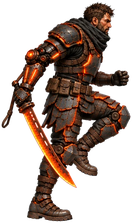
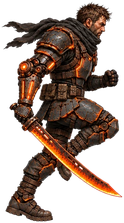
Swordsman: drawn jump, fall and dash; new run sheet with one sword in hand
Run sheets drop small enclosed white gaps (between blade and leg); airborne
and dash poses stand on the torso centre.

Claude-Session: https://claude.ai/code/session_01DbbAxgCR2CT7iqKnVBrHPT

diff --git a/coop-platformer/tools/sprites.py b/coop-platformer/tools/sprites.py
@@ -268,6 +268,10 @@ POSE_SOURCES = {
     "swordsman_slash_finisher": [("swordsman_finisher_a", None), ("swordsman_finisher_b", None)],
     "swordsman_slash_overhead": [("swordsman_slash_overhead", None)],
     "swordsman_wall": [("swordsman_wall", (0, 0, 874, 1536))],
+    "swordsman_jump": [("swordsman_jump", None)],
+    "swordsman_fall": [("swordsman_fall", None)],
+    # A long low lunge drawn on a wide canvas: its own scale (height compared with standing).
+    "swordsman_dash": [("swordsman_dash", None, 0.72)],
     # Back view with a hand raised above the head.
     "swordsman_climb": [("swordsman_climb", (0, 0, 724, 1086), 1.12), ("swordsman_climb", (724, 0, 1448, 1086), 1.12)],
 }
@@ -318,8 +322,9 @@ def _sheet_frames(name):
     """The figures of a sheet drawn in a row. Overlapping figures (a cape over
     the next one's boots) are told apart by connected pieces of drawing: each
     piece goes to the figure whose slot holds its middle."""
+    # Small gaps (between a blade and a leg) are background too.
     img = remove_background(Image.open(os.path.join(SRC, "heroes/poses/originals", name + "_original.png")),
-                            holes=400)
+                            holes=60)
     alpha = np.asarray(img)[:, :, 3]
     marks = Image.fromarray(np.where(alpha > 0, 255, 0).astype(np.uint8)).copy()
     owner = np.full(alpha.shape, -1, np.int8)
@@ -371,7 +376,7 @@ def build_poses():
                 width = alpha.shape[1]
                 if pose == "wall":
                     anchor = (width - WALL_GAP) / width
-                elif pose == "run":
+                elif pose in ("run", "jump", "fall", "dash"):
                     # Steady between frames: the middle of the body, not a foot.
                     torso = alpha[int(alpha.shape[0] * 0.35):int(alpha.shape[0] * 0.6)]
                     anchor = np.nonzero(torso > 128)[1].mean() / width

diff --git a/coop-platformer/ART_WORLD1.md b/coop-platformer/ART_WORLD1.md
@@ -106,7 +106,7 @@ Arms swing opposite to the legs. Flat even lighting, white background, nothing c
 
 Имена: `gunner_run`, `swordsman_run`. Если 4 кадра не помещаются ровно — пришли как есть, разрежу сам.
 
-Готово: бег обоих героев.
+Готово: бег обоих героев; прыжок, падение и рывок мечника (новый бег мечника — с одним мечом). Ещё нужно: `gunner_jump_1`, `gunner_fall_1`.
 
 ### 1.5 Прыжок, падение, рывок
 
